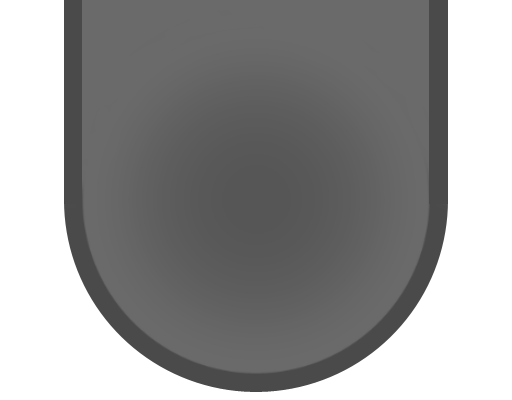
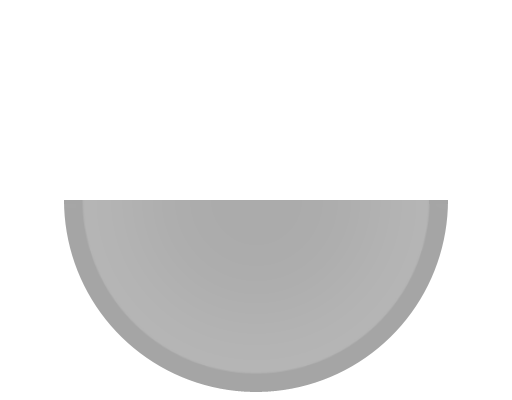
PNIK

diff --git a/src/mania.py b/src/mania.py
@@ -6,9 +6,9 @@ import utils
 
 
 def note(main_color):
-    converted = Color.new(main_color).convert("srgb").coords()
+    converted = main_color.convert("srgb").coords()
     contrast = (
-        Color.new(main_color)
+        main_color
         .filter("brightness", 0.45)
         .filter("saturate", 1.2)
         .convert("srgb")
@@ -24,14 +24,16 @@ def note(main_color):
 
     return outer
 
+def both(main_color):
+    return note(Color.new(main_color)), note(Color.new(main_color).filter("hue-rotate",-90))
 
 colors = get_config("mania")
 
 
 def create_mania():
-    inner = note(colors["2"])
-    outer = note(colors["1"])
-    special = note(colors["S"])
+    inner,inner_hold = both(colors["2"])
+    outer,outer_hold = both(colors["1"])
+    special,special_hold = both(colors["S"])
     rec = Image.open("assets/gameplay/mania/rec.png")
     rec_held_overlay = Image.open("assets/gameplay/mania/rec_held.png")
 
@@ -39,16 +41,16 @@ def create_mania():
     hold_end = Image.open("assets/gameplay/mania/hold_end.png")
 
     utils.save_hd_sd(outer, "build/mania-note1.png")
-    utils.save_hd_sd(outer, "build/mania-note1H.png")
+    utils.save_hd_sd(outer_hold, "build/mania-note1H.png")
 
     utils.save_hd_sd(inner, "build/mania-note2.png")
-    utils.save_hd_sd(inner, "build/mania-note2H.png")
+    utils.save_hd_sd(inner_hold, "build/mania-note2H.png")
 
     utils.save_hd_sd(special, "build/mania-noteS.png")
-    utils.save_hd_sd(special, "build/mania-noteSH.png")
+    utils.save_hd_sd(special_hold, "build/mania-noteSH.png")
 
     utils.save_hd_sd(special, "build/mania-noteS.png")
-    utils.save_hd_sd(special, "build/mania-noteSH.png")
+    utils.save_hd_sd(special_hold, "build/mania-noteSH.png")
 
     for i in "12S":
         utils.save_hd_sd(rec, f"build/mania-key{i}.png")
